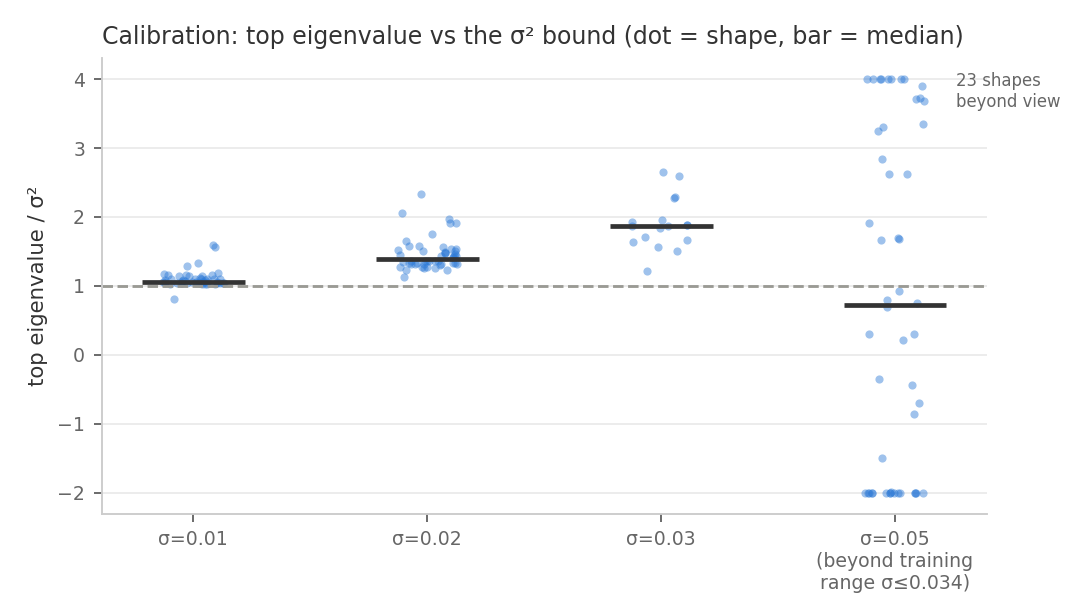
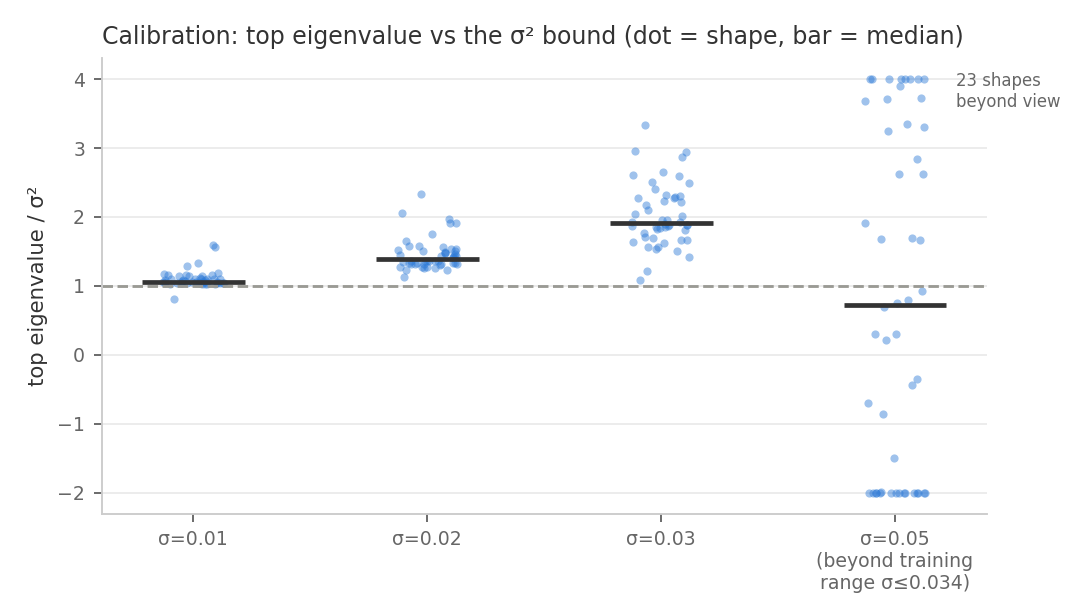
Comprehensive results: full sigma trend, 15-shape ablation, 60-region gallery; refresh results/

diff --git a/results/README.md b/results/README.md
@@ -14,7 +14,7 @@ Exact MMSE theory bounds posterior eigenvalues by σ². Per σ (median top-eigva
 |---|---|---|---|
 | 0.01 | 1.06 | 0 | 0.999 |
 | 0.02 | 1.39 | 2 | 0.996 |
-| 0.03 | 1.88 | 10 | 0.886 |
+| 0.03 | 1.91 | 19 | 0.934 |
 | 0.05 ⚠ beyond training range | 0.72 | 191 | 0.408 |
 
 ## 2. The 3D-specific obstacle: graph rebuilds, and the fix
@@ -33,38 +33,38 @@ Whole-shape posteriors are near-isotropic (flat spectra). Restricting the operat
 
 Best converged, PSD region runs (spread = top-to-last eigenvalue gap). Per exemplar: region modes, mode-0 direction arrows, mode-0 sweep x̂ ± t·√λ·v:
 
-### chair_0890_sigma0.03_r0  (spread 24%)
+### table_0395_sigma0.02_r1  (spread 33%)
 
-![chair_0890_sigma0.03_r0 modes](figures/chair_0890_sigma0.03_r0_modes.png)
-![chair_0890_sigma0.03_r0 arrows](figures/chair_0890_sigma0.03_r0_mode0_arrows.png)
-![chair_0890_sigma0.03_r0 sweep](figures/chair_0890_sigma0.03_r0_mode0_sweep.png)
+![table_0395_sigma0.02_r1 modes](figures/table_0395_sigma0.02_r1_modes.png)
+![table_0395_sigma0.02_r1 arrows](figures/table_0395_sigma0.02_r1_mode0_arrows.png)
+![table_0395_sigma0.02_r1 sweep](figures/table_0395_sigma0.02_r1_mode0_sweep.png)
+
+### guitar_0157_sigma0.03_r1  (spread 31%)
+
+![guitar_0157_sigma0.03_r1 modes](figures/guitar_0157_sigma0.03_r1_modes.png)
+![guitar_0157_sigma0.03_r1 arrows](figures/guitar_0157_sigma0.03_r1_mode0_arrows.png)
+![guitar_0157_sigma0.03_r1 sweep](figures/guitar_0157_sigma0.03_r1_mode0_sweep.png)
+
+### chair_0891_sigma0.03_r0  (spread 30%)
+
+![chair_0891_sigma0.03_r0 modes](figures/chair_0891_sigma0.03_r0_modes.png)
+![chair_0891_sigma0.03_r0 arrows](figures/chair_0891_sigma0.03_r0_mode0_arrows.png)
+![chair_0891_sigma0.03_r0 sweep](figures/chair_0891_sigma0.03_r0_mode0_sweep.png)
+
+### table_0395_sigma0.03_r1  (spread 29%)
+
+![table_0395_sigma0.03_r1 modes](figures/table_0395_sigma0.03_r1_modes.png)
+![table_0395_sigma0.03_r1 arrows](figures/table_0395_sigma0.03_r1_mode0_arrows.png)
+![table_0395_sigma0.03_r1 sweep](figures/table_0395_sigma0.03_r1_mode0_sweep.png)
+
+### lamp_0126_sigma0.02_r0  (spread 23%)
+
+![lamp_0126_sigma0.02_r0 modes](figures/lamp_0126_sigma0.02_r0_modes.png)
+![lamp_0126_sigma0.02_r0 arrows](figures/lamp_0126_sigma0.02_r0_mode0_arrows.png)
+![lamp_0126_sigma0.02_r0 sweep](figures/lamp_0126_sigma0.02_r0_mode0_sweep.png)
 
 ### airplane_0627_sigma0.02_r0  (spread 21%)
 
 ![airplane_0627_sigma0.02_r0 modes](figures/airplane_0627_sigma0.02_r0_modes.png)
 ![airplane_0627_sigma0.02_r0 arrows](figures/airplane_0627_sigma0.02_r0_mode0_arrows.png)
 ![airplane_0627_sigma0.02_r0 sweep](figures/airplane_0627_sigma0.02_r0_mode0_sweep.png)
-
-### lamp_0125_sigma0.03_r1  (spread 19%)
-
-![lamp_0125_sigma0.03_r1 modes](figures/lamp_0125_sigma0.03_r1_modes.png)
-![lamp_0125_sigma0.03_r1 arrows](figures/lamp_0125_sigma0.03_r1_mode0_arrows.png)
-![lamp_0125_sigma0.03_r1 sweep](figures/lamp_0125_sigma0.03_r1_mode0_sweep.png)
-
-### airplane_0627_sigma0.03_r1  (spread 14%)
-
-![airplane_0627_sigma0.03_r1 modes](figures/airplane_0627_sigma0.03_r1_modes.png)
-![airplane_0627_sigma0.03_r1 arrows](figures/airplane_0627_sigma0.03_r1_mode0_arrows.png)
-![airplane_0627_sigma0.03_r1 sweep](figures/airplane_0627_sigma0.03_r1_mode0_sweep.png)
-
-### table_0393_sigma0.02_r1  (spread 13%)
-
-![table_0393_sigma0.02_r1 modes](figures/table_0393_sigma0.02_r1_modes.png)
-![table_0393_sigma0.02_r1 arrows](figures/table_0393_sigma0.02_r1_mode0_arrows.png)
-![table_0393_sigma0.02_r1 sweep](figures/table_0393_sigma0.02_r1_mode0_sweep.png)
-
-### table_0393_sigma0.03_r0  (spread 11%)
-
-![table_0393_sigma0.03_r0 modes](figures/table_0393_sigma0.03_r0_modes.png)
-![table_0393_sigma0.03_r0 arrows](figures/table_0393_sigma0.03_r0_mode0_arrows.png)
-![table_0393_sigma0.03_r0 sweep](figures/table_0393_sigma0.03_r0_mode0_sweep.png)

diff --git a/docs/LOG.md b/docs/LOG.md
@@ -15,6 +15,28 @@ Entry template:
 
 ---
 
+## 2026-08-18 — Comprehensive evidence set complete; results/ folder built
+**Who:** Claude (with Rocky) · **Machine:** mac (CPU) · **Config:** local + overrides
+**What:** Three background runs to make the report evidence comprehensive, plus a
+curated, git-tracked `results/` folder (`scripts/build_results.py` regenerates it:
+summary charts, auto-picked exemplar galleries, README with computed tables).
+**Results:**
+- **Calibration σ-trend (50 shapes each):** λ₀/σ² median 1.06 (σ=0.01) → 1.39
+  (0.02) → **1.91 (0.03**, convergence 0.93, 19 neg eigvals — the transitional
+  regime approaching the training edge 0.034**)** → breakdown (0.05). A clean
+  monotone degradation curve for the report.
+- **Unfrozen ablation at 15 shapes (σ=0.02):** median λ₀/σ² 2.91, antisym 0.34,
+  convergence 0.18 — vs frozen 1.39 / 0.009 / 1.00. The A/B table is now real
+  statistics, not a 5-shape anecdote.
+- **Masked gallery, 60 region runs:** σ=0.02: 28/30 converged+PSD, spreads up to
+  33%; σ=0.03: 22/30, median spread 12%, up to 31%. Arrow-field figures make modes
+  directly interpretable (e.g. chair_0891 r0: mode = coherent shift of the thin
+  stretcher rail between the legs).
+**Where things stand:** all proposal commitments are demonstrated and quantified;
+`results/README.md` is the at-a-glance summary. Remaining work is the write-up
+itself (report text, figure selection from results/, discussion of the 1.3–1.9σ²
+calibration drift and the training-range boundary).
+
 ## 2026-08-17 — Phase-3 sweep complete: calibrated in-distribution, breaks beyond training σ
 **Who:** Claude (with Rocky) · **Machine:** mac (CPU) · **Config:** local + overrides
 (name=phase3: 50 shapes × σ∈{0.01,0.02,0.05} × 5 eigenpairs, 15 iters, frozen graph)
